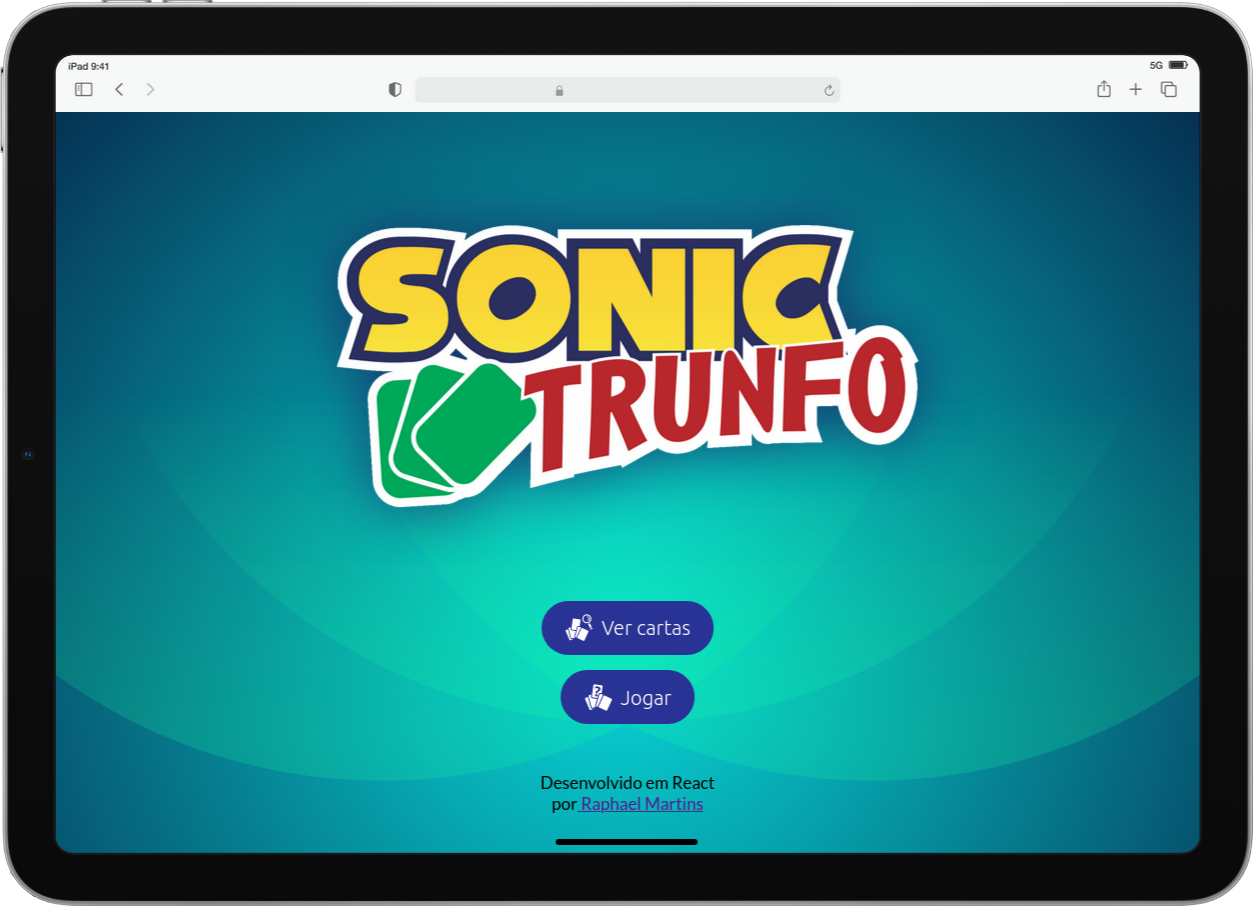
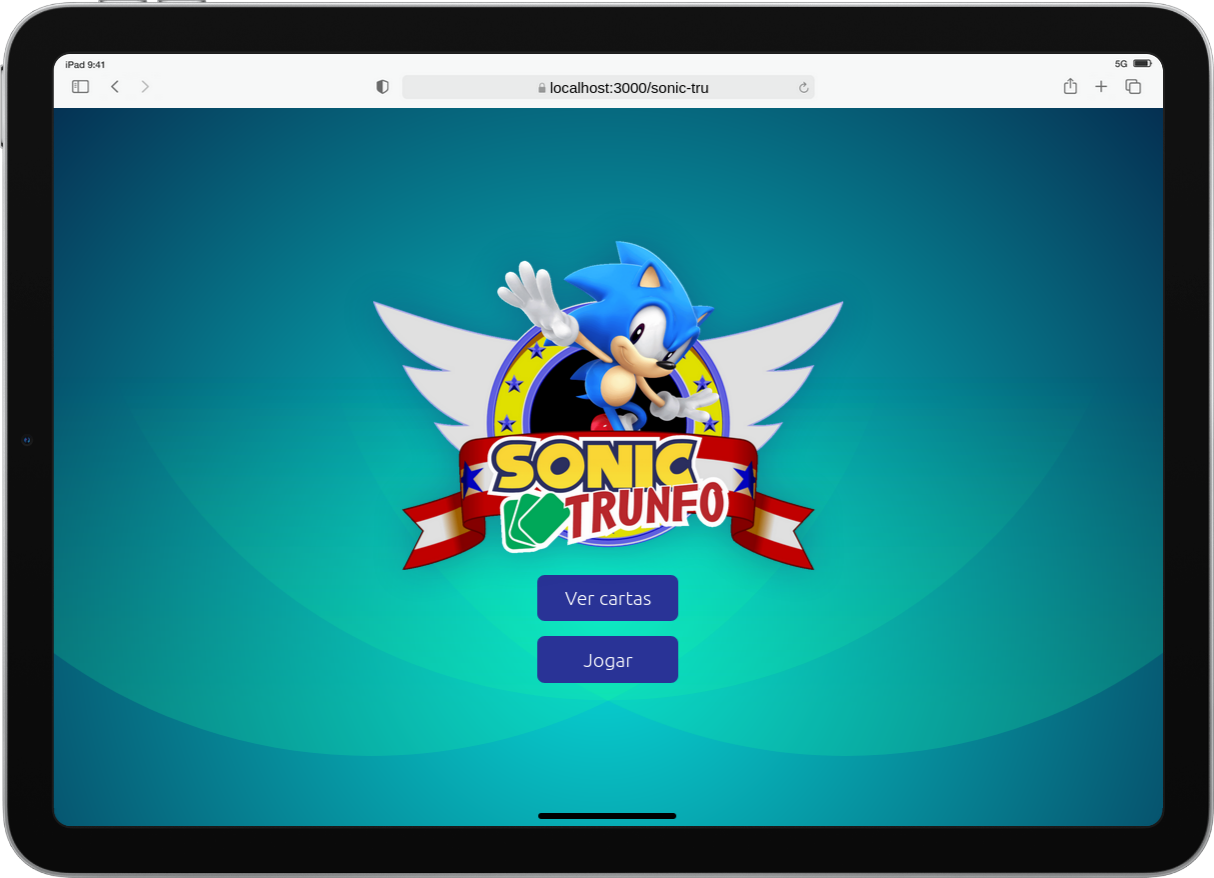
changed title screen.

diff --git a/src/pages/TitlePage.js b/src/pages/TitlePage.js
@@ -1,7 +1,7 @@
 import React, { useEffect } from 'react';
 import { GiCardPick, GiCardRandom } from 'react-icons/gi';
 import { useNavigate } from 'react-router-dom';
-import logo from '../assets/logo.png';
+import logo from '../assets/logo-title.png';
 import alrightSoundEffect from '../assets/sound-effects/alright.mp3';
 import ringSoundEffect from '../assets/sound-effects/ring.mp3';
 import useStartGame from '../hooks/useStartGame';
@@ -28,9 +28,6 @@ function TitlePage() {
             navigate('/deck');
           } }
         >
-          <div className="TitlePage-button-icon">
-            <GiCardPick />
-          </div>
           <span>Ver cartas</span>
         </button>
         <button
@@ -40,20 +37,9 @@ function TitlePage() {
             navigate('/game');
           } }
         >
-          <div className="TitlePage-button-icon">
-            <GiCardRandom />
-          </div>
           <span>Jogar</span>
         </button>
       </main>
-      <footer>
-        <p>
-          Desenvolvido em React
-          <br />
-          por
-          <a href="https://www.linkedin.com/in/raphaelameidamartins/"> Raphael Martins</a>
-        </p>
-      </footer>
     </div>
   );
 }

diff --git a/src/sass/pages/TitlePage.css b/src/sass/pages/TitlePage.css
@@ -36,11 +36,10 @@
 }
 
 .TitlePage img {
-  -webkit-filter: drop-shadow(0 0 30px rgba(31, 19, 90, 0.687));
-          filter: drop-shadow(0 0 30px rgba(31, 19, 90, 0.687));
-  width: 600px;
+  -webkit-filter: drop-shadow(0 0 20px rgba(31, 19, 90, 0.327));
+          filter: drop-shadow(0 0 20px rgba(31, 19, 90, 0.327));
+  width: 500px;
   max-width: 80vw;
-  margin-bottom: 6rem;
 }
 
 .TitlePage button {
@@ -48,7 +47,7 @@
       -ms-flex-align: center;
           align-items: center;
   background-color: var(--sonic-fur);
-  border-radius: 2rem;
+  border-radius: 0.5rem;
   color: white;
   cursor: pointer;
   display: -webkit-box;
@@ -59,6 +58,7 @@
           justify-content: center;
   margin-bottom: 1rem;
   padding: 0.8rem 1.5rem;
+  width: 150px;
 }
 
 .TitlePage button:hover {

diff --git a/src/sass/pages/TitlePage.scss b/src/sass/pages/TitlePage.scss
@@ -20,22 +20,22 @@
   }
 
   img {
-    filter: drop-shadow(0 0 30px rgba(31, 19, 90, 0.687));
-    width: 600px;
+    filter: drop-shadow(0 0 20px rgba(31, 19, 90, 0.327));
+    width: 500px;
     max-width: 80vw;
-    margin-bottom: 6rem;
   }
 
   button {
     align-items: center;
     background-color: var(--sonic-fur);
-    border-radius: 2rem;
+    border-radius: 0.5rem;
     color: white;
     cursor: pointer;
     display: flex;
     justify-content: center;
     margin-bottom: 1rem;
     padding: 0.8rem 1.5rem;
+    width: 150px;
 
     &:hover {
       filter: brightness(120%);
